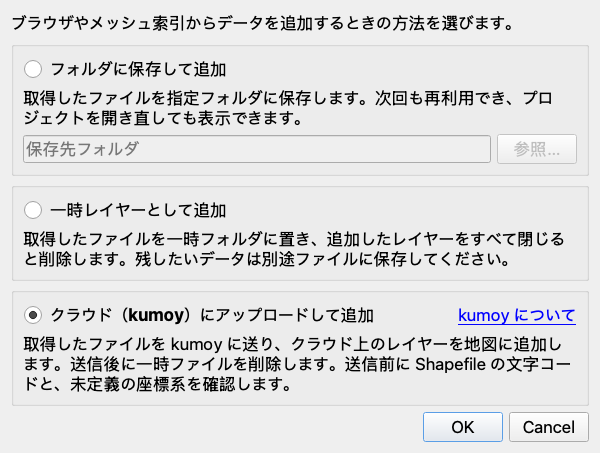
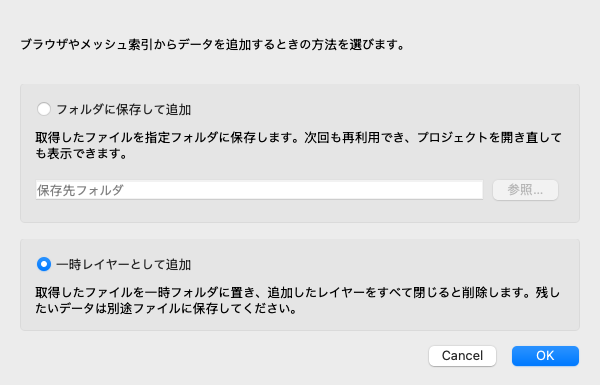
docs: 設定画面の画像を kumoy の選択肢なしで撮り直し、生成スクリプトに加える
Claude-Session: https://claude.ai/code/session_01D1ZRC6pKc5RXjUiQCPpekn

diff --git a/scripts/capture_readme_images.py b/scripts/capture_readme_images.py
@@ -3,7 +3,7 @@
 リポジトリのルートで実行する。
 
     source setup_qgis_env.sh
-    .venv/bin/python scripts/capture_readme_images.py                     # 4 枚すべて
+    .venv/bin/python scripts/capture_readme_images.py                     # 5 枚すべて
     .venv/bin/python scripts/capture_readme_images.py --only browser-loading-mode
 
 - ウィンドウが数秒だけ画面に出る。システムがダーク表示でも Aqua（ライト）で描画する。
@@ -218,6 +218,19 @@ def capture_loading_indicator(app, path):
         browser.close()
 
 
+def capture_loading_settings(app, path):
+    """追加方法・保存先の設定ダイアログ。「一時レイヤー」が選ばれ、保存先は空欄。"""
+    from ksj import local_storage
+
+    dialog = local_storage.LoadingSettingsDialog()
+    try:
+        dialog.show()
+        settle(app)
+        save_1x(dialog.grab(), path)
+    finally:
+        dialog.close()
+
+
 def capture_mesh_resource_dialog(app, path):
     """メッシュをクリックした後の配布ファイル選択ダイアログ。本来の関数で開く。"""
     from ksj import catalog, mesh_index
@@ -259,6 +272,7 @@ CAPTURES = {
     "browser-panel-light": capture_browser_panel,
     "browser-loading-mode": capture_loading_mode,
     "browser-loading-indicator": capture_loading_indicator,
+    "loading-settings": capture_loading_settings,
     "mesh-resource-dialog": capture_mesh_resource_dialog,
 }
 
